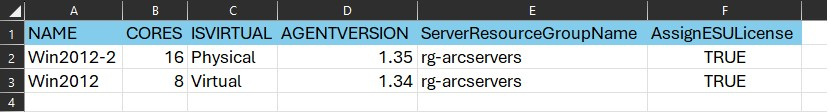
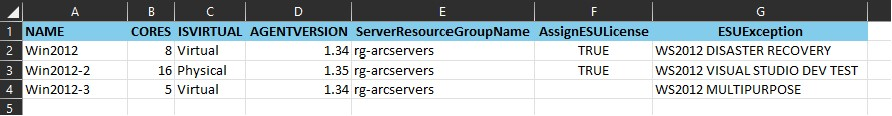
Added support for licensing exceptions

diff --git a/README.md b/README.md
@@ -110,6 +110,7 @@ The creation of the CSV file can be done in 2 ways:
 - AgentVersion: the version of the Azure ARC agent installed on the server. This information can be retrieved from the Azure portal or by running the [Azure Graph Explorer query](https://learn.microsoft.com/en-us/graph/graph-explorer/graph-explorer-overview) mentioned below.
 - ServerResourceGroupName: the name of the resource group that contains the Azure ARC server.
 - AssignESULicense: Set it to **True** if you want the license to be assigned to the Azure ARC server, **False** to unlink the license from the Azure ARC server or omit the value altogether to create a license without assigning it.
+- ESUException: If your server is eligible to receive Extended Security Updates patches at no cost, set it to whichever value that matches the use case. Those scenarios are detailed in the [Additional scenarios section of the Deliver Extended Security Updates for Windows Server 2012](https://learn.microsoft.com/en-us/azure/azure-arc/servers/deliver-extended-security-updates#additional-scenarios) article. If your server is not eligible for free ESU, omit the value altogether. Please make sure you fully understand the scenarios and their requirements before setting this value. Failure to do so could lead to either excessive billing or non-compliance with Microsoft's licensing regulations.
     
 > The AssignedESULicense column is **optional** and is used IF/WHEN you want to manage license assignment as part of the script execution. Note that it is NOT automatically created when using Azure Graph Explorer to generate the CSV file. You will need to **manually** add it to the CSV file if you want to manage assignment of license as part of the execution of this script.
 
@@ -129,7 +130,7 @@ The creation of the CSV file can be done in 2 ways:
     | extend cores = properties.detectedProperties.coreCount, model = tostring(properties.detectedProperties.model), manufacturer = tostring(properties.detectedProperties.manufacturer)  
     | project name,cores,isVirtual,agentVersion,ServerResourceGroupName=resourceGroup,ESUStatus,operatingSystem,model,manufacturer,Cloud
     
-> **Note:** The mentioned query will display all Azure ARC onboarded Windows 2012/R2 servers that haven't been assigned an ESU license. You have the option to adjust the query to retrieve all Windows 2012/R2 servers and subsequently filter the results in Excel, keeping only the servers you wish to assign ESU licenses to. While some of the columns returned might not be utilized by the script, they can be helpful for Excel-based result filtering. Ensure you retain the essential columns (as specified in the manual creation process mentioned earlier) to ensure smooth operations.
+> **Note:** The mentioned query will display all Azure ARC onboarded Windows 2012/R2 servers that haven't been assigned an ESU license yet. You have the option to adjust the query to retrieve all Windows 2012/R2 servers and subsequently filter the results in Excel, keeping only the servers you wish to assign ESU licenses to. While some of the columns returned might not be utilized by the script, they can be helpful for Excel-based result filtering. Ensure you retain the essential columns (as specified in the manual creation process mentioned earlier) to ensure smooth operations and that you add the optional columns as detailed in the manual CSV file creation process if you have a need for them.
 
 Always ensure a thorough review of the CSV file's contents before utilization. Note that in rare cases, the Cores might return a NULL value instead of the actual number of cores. If this occurs, manual intervention is necessary, requiring you to edit the CSV file and replace the NULL value with the specific number of cores pertaining to the server.
 

diff --git a/LISEZMOI.md b/LISEZMOI.md
@@ -117,6 +117,7 @@ Voici les colonnes qui doivent être présentes dans le fichier CSV :
 - AgentVersion : version de l'agent ARC Azure installé sur le serveur. Ces informations peuvent être récupérées à partir du portail Azure ou en exécutant la requête [Azure De Graph Explorer](https://learn.microsoft.com/fr-fr/graph/graph-explorer/graph-explorer-overview) mentionnée ci-dessous.
 - ServerResourceGroupName : nom du groupe de ressources qui contient le serveur ARC Azure auquel vous souhaitez assigner la licence ESU.
 - AssignESULicense: lorsque la valeur est à **True**, la license sera automatiquement assignée au serveur ARC Azure. **False** désassociera la licence ESU du serveur ARC Azure. Enfin, si vous désirez créer une licence ESU sans l'assigner à un serveur ARC Azure, vous devez **omettre** une valeur pour la colonne AssignESULicense.
+- ESUException: Si votre serveur est éligible pour recevoir des correctifs de mises à jour de sécurité étendues gratuitement, définissez cette colone avec la valeur correspondant au cas d'utilisation. Ces scénarios sont détaillés la section [Autres cas de figure de l'article Fournir des Mises à jour de sécurité étendue pour Windows Server 2012](https://learn.microsoft.com/fr-fr/azure/azure-arc/servers/deliver-extended-security-updates#additional-scenarios). Si votre serveur n'est pas éligible pour les ESU gratuits, omettez la valeur. Assurez-vous de bien comprendre les scénarios et leurs exigences avant d'utiliser cette fonctionalité. Ne pas correctement les appliquer pourrait entraîner une facturations excessive ou une non-conformité aux réglementations de licence de Microsoft.
 
 > La colonne AssignESULicense est **optionelle** et n'est utile que quand/lorsque vous voulez gérer les attributions de licences via le fichier CSV. Notez qu'elle n'est PAS créée automatiquement lors de la génération du fichier CSV avec Azure Graph Explorer. Vous devrez donc l'ajouter **manuellement** si vous comptez gérer l'assignation des licenses lors de l'exécution de ce script.
 
